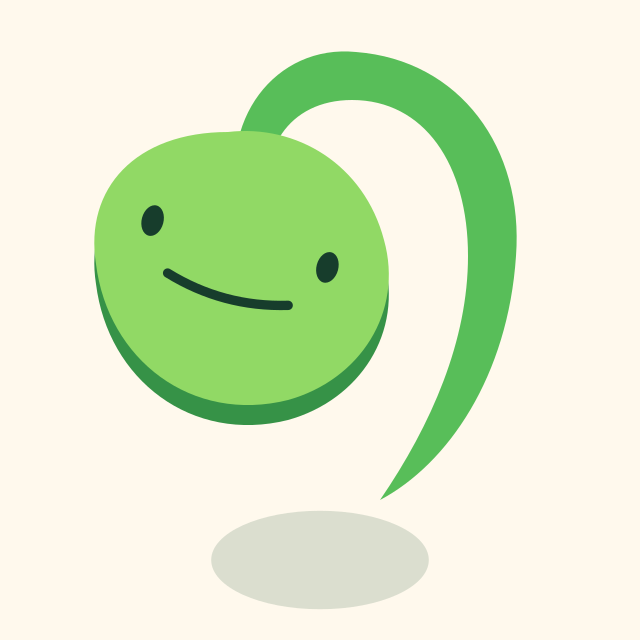
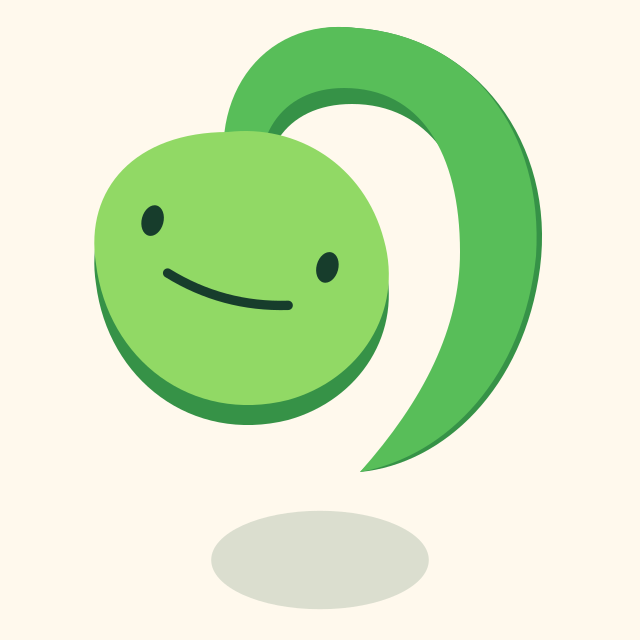
Reserva Tupé en lugar de Espiral y da más curva al Gancho

diff --git a/brand/reed/growth/brote-directions-exploration.html b/brand/reed/growth/brote-directions-exploration.html
@@ -1,1 +1,1 @@
-<!doctype html><html lang="es"><meta charset="utf-8"><meta name="viewport" content="width=device-width,initial-scale=1"><title>Brote · Cinco direcciones</title><style>*{box-sizing:border-box}body{margin:0;background:#FFF9ED;color:#173D2C;font-family:system-ui,sans-serif}main{max-width:1440px;margin:auto;padding:24px}.sheet{width:100%;height:auto}h1{font-size:28px}p,figcaption{color:#6c7e63}section{border-top:1px solid #d9ded4;padding:24px 0}.sizes{display:flex;align-items:center;flex-wrap:wrap;gap:24px;margin-top:16px}figure{margin:0}figcaption{text-align:center;font-size:12px}img{display:block;object-fit:contain}</style><main><h1>Brote · Cinco direcciones</h1><p>Propuestas 1–5 · Exploración</p><img class="sheet" src="brote-directions-exploration.svg" width="1440" height="1040" alt="Referencia vigente y cinco propuestas nuevas"><section><h2>1 · Semilla que se abre</h2><p>Dos mitades dejan salir al brote</p><div class="sizes"><figure><img src="brote-directions-1-semilla-abierta.svg" width="160" height="160" alt="1 · Semilla que se abre"><figcaption>160 px</figcaption></figure><figure><img src="brote-directions-1-semilla-abierta.svg" width="100" height="100" alt="1 · Semilla que se abre"><figcaption>100 px</figcaption></figure><figure><img src="brote-directions-1-semilla-abierta.svg" width="60" height="60" alt="1 · Semilla que se abre"><figcaption>60 px</figcaption></figure><figure><img src="brote-directions-1-semilla-abierta.svg" width="32" height="32" alt="1 · Semilla que se abre"><figcaption>32 px</figcaption></figure></div><div class="sizes"><span>Icono</span><img src="brote-directions-1-semilla-abierta-body.svg" width="60" height="60" alt="Icono de 1 · Semilla que se abre"><img src="brote-directions-1-semilla-abierta-body.svg" width="32" height="32" alt="Icono de 1 · Semilla que se abre"></div></section><section><h2>2 · Brote en gancho</h2><p>Gancho más fino, sin hojas y con punta</p><div class="sizes"><figure><img src="brote-directions-2-gancho.svg" width="160" height="160" alt="2 · Brote en gancho"><figcaption>160 px</figcaption></figure><figure><img src="brote-directions-2-gancho.svg" width="100" height="100" alt="2 · Brote en gancho"><figcaption>100 px</figcaption></figure><figure><img src="brote-directions-2-gancho.svg" width="60" height="60" alt="2 · Brote en gancho"><figcaption>60 px</figcaption></figure><figure><img src="brote-directions-2-gancho.svg" width="32" height="32" alt="2 · Brote en gancho"><figcaption>32 px</figcaption></figure></div><div class="sizes"><span>Icono</span><img src="brote-directions-2-gancho-body.svg" width="60" height="60" alt="Icono de 2 · Brote en gancho"><img src="brote-directions-2-gancho-body.svg" width="32" height="32" alt="Icono de 2 · Brote en gancho"></div></section><section><h2>3 · Brote con capucha</h2><p>Las hojas envuelven la cara</p><div class="sizes"><figure><img src="brote-directions-3-capucha.svg" width="160" height="160" alt="3 · Brote con capucha"><figcaption>160 px</figcaption></figure><figure><img src="brote-directions-3-capucha.svg" width="100" height="100" alt="3 · Brote con capucha"><figcaption>100 px</figcaption></figure><figure><img src="brote-directions-3-capucha.svg" width="60" height="60" alt="3 · Brote con capucha"><figcaption>60 px</figcaption></figure><figure><img src="brote-directions-3-capucha.svg" width="32" height="32" alt="3 · Brote con capucha"><figcaption>32 px</figcaption></figure></div><div class="sizes"><span>Icono</span><img src="brote-directions-3-capucha-body.svg" width="60" height="60" alt="Icono de 3 · Brote con capucha"><img src="brote-directions-3-capucha-body.svg" width="32" height="32" alt="Icono de 3 · Brote con capucha"></div></section><section><h2>4 · Brote con cascarón</h2><p>Casquito · Variante reservada</p><div class="sizes"><figure><img src="brote-directions-4-cascaron.svg" width="160" height="160" alt="4 · Brote con cascarón"><figcaption>160 px</figcaption></figure><figure><img src="brote-directions-4-cascaron.svg" width="100" height="100" alt="4 · Brote con cascarón"><figcaption>100 px</figcaption></figure><figure><img src="brote-directions-4-cascaron.svg" width="60" height="60" alt="4 · Brote con cascarón"><figcaption>60 px</figcaption></figure><figure><img src="brote-directions-4-cascaron.svg" width="32" height="32" alt="4 · Brote con cascarón"><figcaption>32 px</figcaption></figure></div><div class="sizes"><span>Icono</span><img src="brote-directions-4-cascaron-body.svg" width="60" height="60" alt="Icono de 4 · Brote con cascarón"><img src="brote-directions-4-cascaron-body.svg" width="32" height="32" alt="Icono de 4 · Brote con cascarón"></div></section><section><h2>5 · Brote en espiral</h2><p>Una hoja enrollada empieza a desplegarse</p><div class="sizes"><figure><img src="brote-directions-5-espiral.svg" width="160" height="160" alt="5 · Brote en espiral"><figcaption>160 px</figcaption></figure><figure><img src="brote-directions-5-espiral.svg" width="100" height="100" alt="5 · Brote en espiral"><figcaption>100 px</figcaption></figure><figure><img src="brote-directions-5-espiral.svg" width="60" height="60" alt="5 · Brote en espiral"><figcaption>60 px</figcaption></figure><figure><img src="brote-directions-5-espiral.svg" width="32" height="32" alt="5 · Brote en espiral"><figcaption>32 px</figcaption></figure></div><div class="sizes"><span>Icono</span><img src="brote-directions-5-espiral-body.svg" width="60" height="60" alt="Icono de 5 · Brote en espiral"><img src="brote-directions-5-espiral-body.svg" width="32" height="32" alt="Icono de 5 · Brote en espiral"></div></section></main></html>
+<!doctype html><html lang="es"><meta charset="utf-8"><meta name="viewport" content="width=device-width,initial-scale=1"><title>Brote · Cinco direcciones</title><style>*{box-sizing:border-box}body{margin:0;background:#FFF9ED;color:#173D2C;font-family:system-ui,sans-serif}main{max-width:1440px;margin:auto;padding:24px}.sheet{width:100%;height:auto}h1{font-size:28px}p,figcaption{color:#6c7e63}section{border-top:1px solid #d9ded4;padding:24px 0}.sizes{display:flex;align-items:center;flex-wrap:wrap;gap:24px;margin-top:16px}figure{margin:0}figcaption{text-align:center;font-size:12px}img{display:block;object-fit:contain}</style><main><h1>Brote · Cinco direcciones</h1><p>Propuestas 1–5 · Exploración</p><img class="sheet" src="brote-directions-exploration.svg" width="1440" height="1040" alt="Referencia vigente y cinco propuestas nuevas"><section><h2>1 · Semilla que se abre</h2><p>Dos mitades dejan salir al brote</p><div class="sizes"><figure><img src="brote-directions-1-semilla-abierta.svg" width="160" height="160" alt="1 · Semilla que se abre"><figcaption>160 px</figcaption></figure><figure><img src="brote-directions-1-semilla-abierta.svg" width="100" height="100" alt="1 · Semilla que se abre"><figcaption>100 px</figcaption></figure><figure><img src="brote-directions-1-semilla-abierta.svg" width="60" height="60" alt="1 · Semilla que se abre"><figcaption>60 px</figcaption></figure><figure><img src="brote-directions-1-semilla-abierta.svg" width="32" height="32" alt="1 · Semilla que se abre"><figcaption>32 px</figcaption></figure></div><div class="sizes"><span>Icono</span><img src="brote-directions-1-semilla-abierta-body.svg" width="60" height="60" alt="Icono de 1 · Semilla que se abre"><img src="brote-directions-1-semilla-abierta-body.svg" width="32" height="32" alt="Icono de 1 · Semilla que se abre"></div></section><section><h2>2 · Brote en gancho</h2><p>Curva más marcada, volumen y punta</p><div class="sizes"><figure><img src="brote-directions-2-gancho.svg" width="160" height="160" alt="2 · Brote en gancho"><figcaption>160 px</figcaption></figure><figure><img src="brote-directions-2-gancho.svg" width="100" height="100" alt="2 · Brote en gancho"><figcaption>100 px</figcaption></figure><figure><img src="brote-directions-2-gancho.svg" width="60" height="60" alt="2 · Brote en gancho"><figcaption>60 px</figcaption></figure><figure><img src="brote-directions-2-gancho.svg" width="32" height="32" alt="2 · Brote en gancho"><figcaption>32 px</figcaption></figure></div><div class="sizes"><span>Icono</span><img src="brote-directions-2-gancho-body.svg" width="60" height="60" alt="Icono de 2 · Brote en gancho"><img src="brote-directions-2-gancho-body.svg" width="32" height="32" alt="Icono de 2 · Brote en gancho"></div></section><section><h2>3 · Brote con capucha</h2><p>Las hojas envuelven la cara</p><div class="sizes"><figure><img src="brote-directions-3-capucha.svg" width="160" height="160" alt="3 · Brote con capucha"><figcaption>160 px</figcaption></figure><figure><img src="brote-directions-3-capucha.svg" width="100" height="100" alt="3 · Brote con capucha"><figcaption>100 px</figcaption></figure><figure><img src="brote-directions-3-capucha.svg" width="60" height="60" alt="3 · Brote con capucha"><figcaption>60 px</figcaption></figure><figure><img src="brote-directions-3-capucha.svg" width="32" height="32" alt="3 · Brote con capucha"><figcaption>32 px</figcaption></figure></div><div class="sizes"><span>Icono</span><img src="brote-directions-3-capucha-body.svg" width="60" height="60" alt="Icono de 3 · Brote con capucha"><img src="brote-directions-3-capucha-body.svg" width="32" height="32" alt="Icono de 3 · Brote con capucha"></div></section><section><h2>4 · Brote con cascarón</h2><p>Casquito · Variante reservada</p><div class="sizes"><figure><img src="brote-directions-4-cascaron.svg" width="160" height="160" alt="4 · Brote con cascarón"><figcaption>160 px</figcaption></figure><figure><img src="brote-directions-4-cascaron.svg" width="100" height="100" alt="4 · Brote con cascarón"><figcaption>100 px</figcaption></figure><figure><img src="brote-directions-4-cascaron.svg" width="60" height="60" alt="4 · Brote con cascarón"><figcaption>60 px</figcaption></figure><figure><img src="brote-directions-4-cascaron.svg" width="32" height="32" alt="4 · Brote con cascarón"><figcaption>32 px</figcaption></figure></div><div class="sizes"><span>Icono</span><img src="brote-directions-4-cascaron-body.svg" width="60" height="60" alt="Icono de 4 · Brote con cascarón"><img src="brote-directions-4-cascaron-body.svg" width="32" height="32" alt="Icono de 4 · Brote con cascarón"></div></section><section><h2>5 · Brote con tupé</h2><p>Tupé · Variante reservada</p><div class="sizes"><figure><img src="brote-directions-5-tupe.svg" width="160" height="160" alt="5 · Brote con tupé"><figcaption>160 px</figcaption></figure><figure><img src="brote-directions-5-tupe.svg" width="100" height="100" alt="5 · Brote con tupé"><figcaption>100 px</figcaption></figure><figure><img src="brote-directions-5-tupe.svg" width="60" height="60" alt="5 · Brote con tupé"><figcaption>60 px</figcaption></figure><figure><img src="brote-directions-5-tupe.svg" width="32" height="32" alt="5 · Brote con tupé"><figcaption>32 px</figcaption></figure></div><div class="sizes"><span>Icono</span><img src="brote-directions-5-tupe-body.svg" width="60" height="60" alt="Icono de 5 · Brote con tupé"><img src="brote-directions-5-tupe-body.svg" width="32" height="32" alt="Icono de 5 · Brote con tupé"></div></section></main></html>

diff --git a/brand/reed/growth/brote-directions-exploration.md b/brand/reed/growth/brote-directions-exploration.md
@@ -8,7 +8,7 @@
 - **2 · Brote en gancho**: Gancho más fino, sin hojas y con punta.
 - **3 · Brote con capucha**: Las hojas envuelven la cara.
 - **4 · Brote con cascarón**: Cáscara centrada como casquito, sin hojas.
-- **5 · Brote en espiral**: Una hoja enrollada empieza a desplegarse.
+- **5 · Brote con tupé**: Variante aprobada, en lugar de Espiral.
 
 Brote sigue siendo la etapa anterior a Plántula, con ID histórico `seedling`. Se reutiliza la geometría facial de `mascotFace`, con posición, escala uniforme y giro propios de cada propuesta. Colores planos tomados de Brote y Semilla, sin texturas ni degradados. La sombra de suelo permanece separada del cuerpo.
 
@@ -29,3 +29,19 @@ El usuario aprueba la versión intermedia de Casquito. Se guarda por separado en
 ## Refinamiento de la 2 · Gancho
 
 Se retiran las dos hojas y se sustituye el tallo grueso de extremo redondo por un gancho fino que acaba en punta. Se conservan exactamente la cabeza y la cara de la propuesta 2. Sigue en revisión.
+
+Segundo ajuste del Gancho: versión intermedia, con algo más de grosor y borde verde oscuro, conservando el extremo único en punta. Sin hojas; cabeza y cara sin cambios.
+
+## Derivación de la 2 · Supertupé
+
+A propuesta del usuario, el gancho se recoge sobre la cabeza como un mechón vegetal con volumen, remate curvado y punta. Se conserva la cabeza y la cara de la 2; sin hojas añadidas. Variante aprobada y guardada por separado del Gancho; sustituye a Espiral en el puesto 5.
+
+![Brote con supertupé](brote-directions-2-tupe-preview.png)
+
+[SVG completo](brote-directions-2-tupe.svg) · [Cuerpo sin cara](brote-directions-2-tupe-body.svg).
+
+Ajuste del Supertupé: su comienzo comparte un punto y la tangente del contorno superior izquierdo de la cabeza. El borde oscuro y el frontal confluyen allí, sin escalón. Se conservan el cuerpo, la cara y el remate del tupé.
+
+El usuario aprueba Tupé como segunda variante reservada y lo sitúa en el puesto 5, sustituyendo a Espiral. Espiral conserva solo sus archivos históricos y queda retirada de la lámina y del estudio activos.
+
+Tercer ajuste del Gancho: recuperación de la curva más marcada y del volumen de la idea inicial. El extremo se recoge algo más hacia la cabeza y mantiene una sola punta; sin hojas. Cabeza y cara conservadas.

diff --git a/brand/reed/growth/brote-variations-future.md b/brand/reed/growth/brote-variations-future.md
@@ -1,6 +1,6 @@
 # Brote · Variantes reservadas
 
-13 de octubre de 2026. El usuario aprueba Casquito como primera variante reservada. El brote activo de producción se conserva.
+13 de octubre de 2026. El usuario aprueba Casquito y Tupé como variantes reservadas. El brote activo de producción se conserva.
 
 ## Casquito
 
@@ -13,3 +13,15 @@ Sin hojas, cuerpo verde redondeado y cáscara centrada con un pequeño saliente 
 - [Cuerpo sin cara ni sombra, SVG](brote-variations-casquito-body.svg).
 
 Cara común de `seedling`, colocación x=81, y=90, giro=−6°, escala=0,82, ojos sin desplazamientos y boca de 5×. El personaje completo tiene desplazamiento vertical −9 unidades y sombra de suelo independiente. Estos valores pertenecen a esta variante reservada, no a la mascota activa.
+
+## Tupé
+
+![Brote con tupé](brote-variations-tupe.png)
+
+Segunda variante aprobada. Sustituye a Espiral en la colección de propuestas. Se conserva exactamente el tupé con su comienzo alineado al contorno de la cabeza, el remate en punta y la cara de la propuesta 2. Sin hojas añadidas.
+
+- [Personaje completo, SVG](brote-variations-tupe.svg).
+- [Personaje completo, PNG transparente](brote-variations-tupe.png).
+- [Cuerpo sin cara ni sombra, SVG](brote-variations-tupe-body.svg).
+
+Cara común de `seedling`, colocación x=60, y=70, giro=15°, escala=0,78, ojos sin desplazamientos y boca de 5×. Desplazamiento vertical del personaje −9 unidades; sombra separada. Valores propios de la variante, sin activar en producción.
